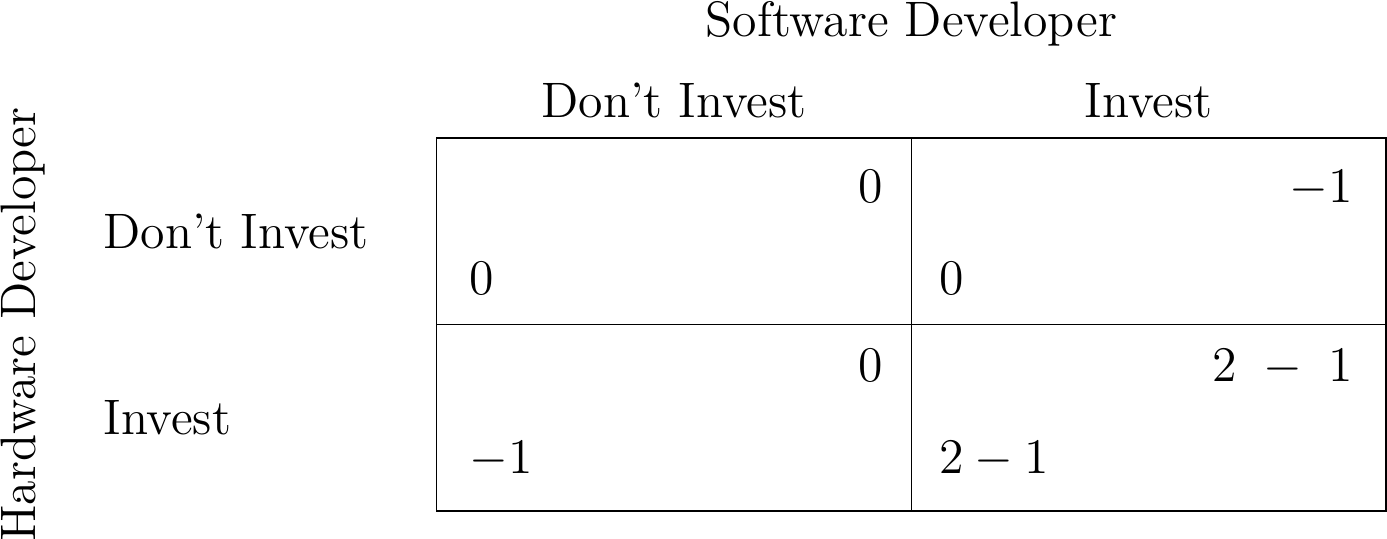
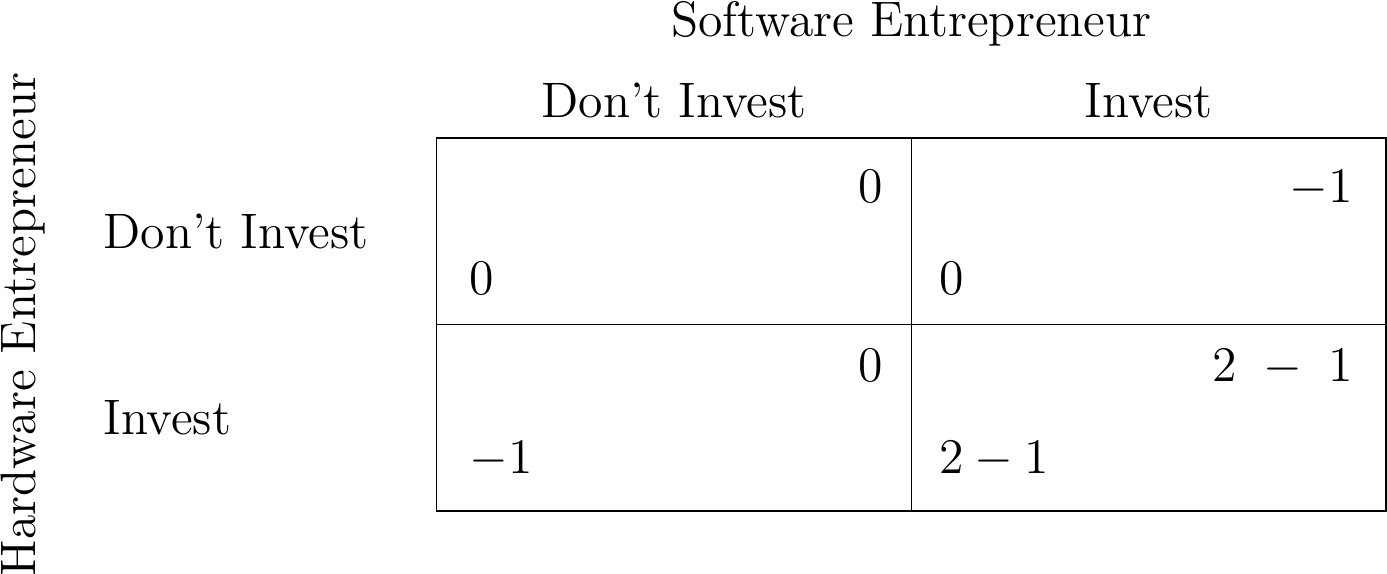
m e

diff --git a/docs/slides/OleMiss2019.html b/docs/slides/OleMiss2019.html
@@ -38,16 +38,21 @@ Competitive Coordination
 - Previous theoretical literature only studies **existence** of coordination failures
 
 ---
-Coordination Failures
+Coordination Game
 ====================================
 .center[![](https://briancalbrecht.github.io/docs/slides/images/jmp/tikz_D.png)]
 
+- Efficient Coordination: (Invest, Invest)
+
+- Coordination Failure; (Don't Invest, Don't Invest)
+
+- But what if there are many software and hardware entrepreneurs?
 ---
 My Question
 ====================================
 
 
-- Are the investments we see out in the world likely to be inefficient? 
+- Are the investments we see out in the world (with many entrepreneurs) likely to be inefficient? 
 
 
 

diff --git a/docs/slides/tikz_charts/jmp.tex b/docs/slides/tikz_charts/jmp.tex
@@ -209,8 +209,8 @@
 	\node[left=5pt of c,text width=2.5cm]  {Don't Invest};
 	\node[left=5pt of d,text width=2.5cm]  {Invest};
 	
-	\node[above=18pt of m.north] (firm b) {Software Developer};
-	\node[left=3.5cm of m.west,rotate=90,align=center,anchor=center] {Hardware Developer};
+	\node[above=18pt of m.north] (firm b) {Software Entrepreneur};
+	\node[left=3.5cm of m.west,rotate=90,align=center,anchor=center] {Hardware Entrepreneur};
 	
 	\end{tikzpicture}\\
 \end{figure}
